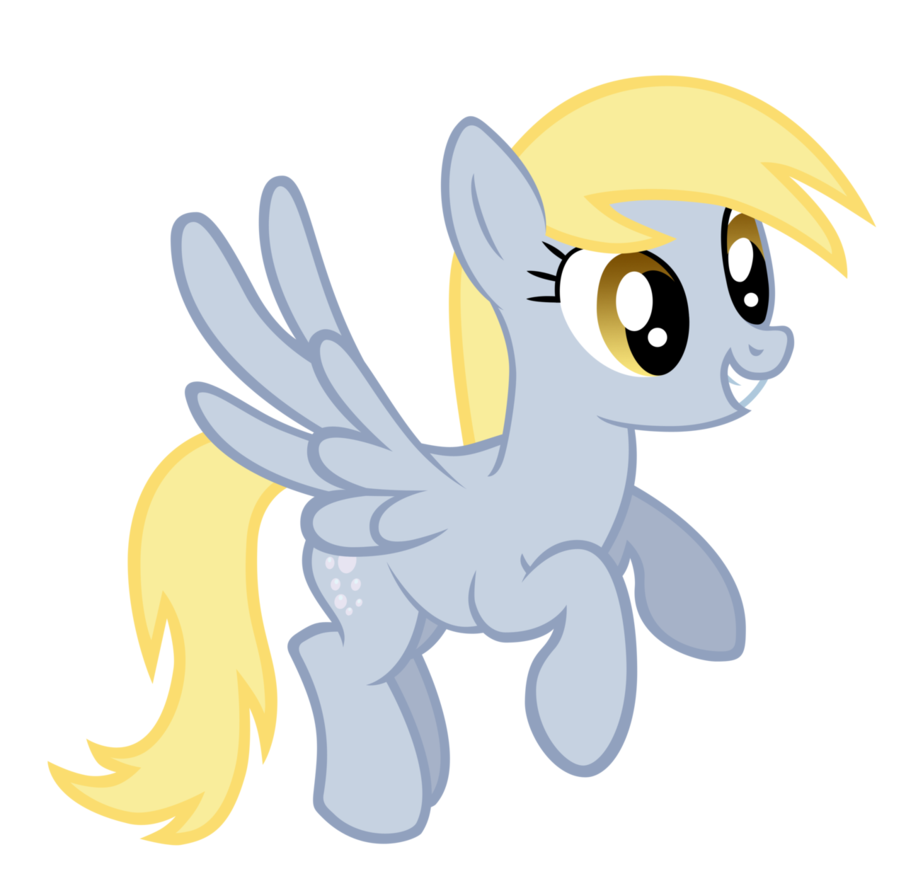
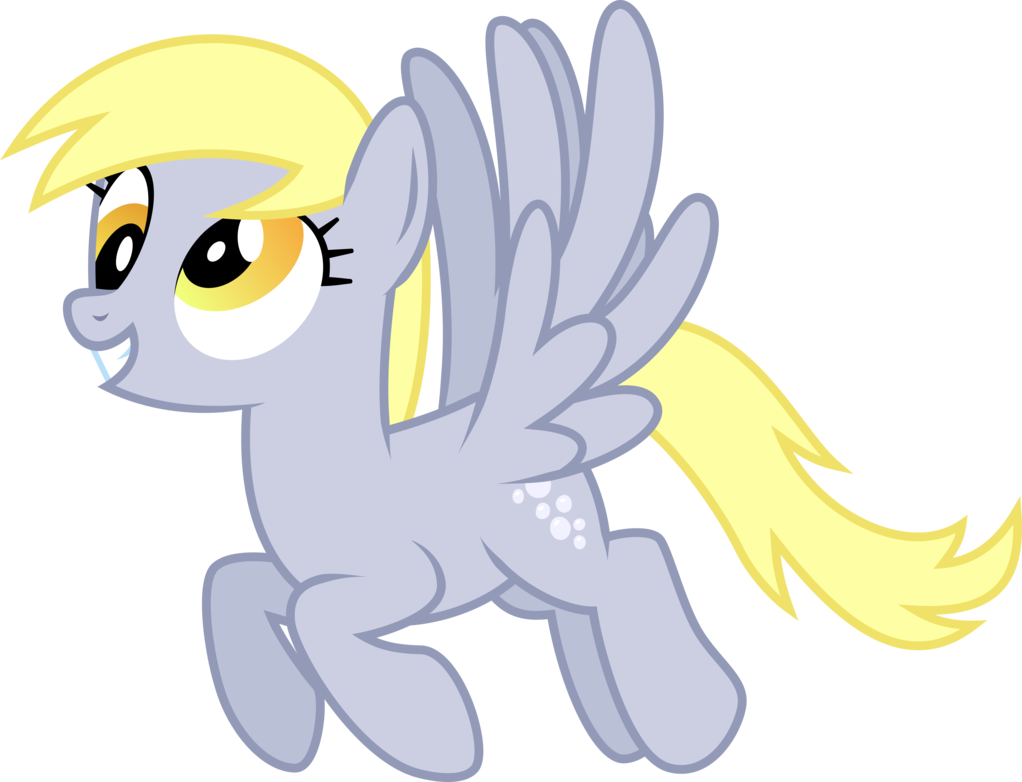
Updated README

diff --git a/README.md b/README.md
@@ -59,4 +59,4 @@ LIABILITY, WHETHER IN AN ACTION OF CONTRACT, TORT OR OTHERWISE, ARISING
 FROM, OUT OF OR IN CONNECTION WITH THE SOFTWARE OR THE USE OR OTHER
 DEALINGS IN THE SOFTWARE.
 
-<a href="http://ikillyou121.deviantart.com/art/Smiley-Derpy-Hooves-Vector-377582698">![Derpy is best pony. Image licensed under Creative Commons from ikillyou121 on DeviantArt.](https://raw.github.com/stevestreza/DerpKit/native-base64/mascot.png)</a>
+<a href="http://starshinecelestalis.deviantart.com/art/Derpy-Hooves-Flying-Vector-387780671">![Derpy is best pony. Image used with credit from StarshineCelestalis on DeviantArt.](https://raw.github.com/stevestreza/DerpKit/native-base64/mascot.png)</a>
